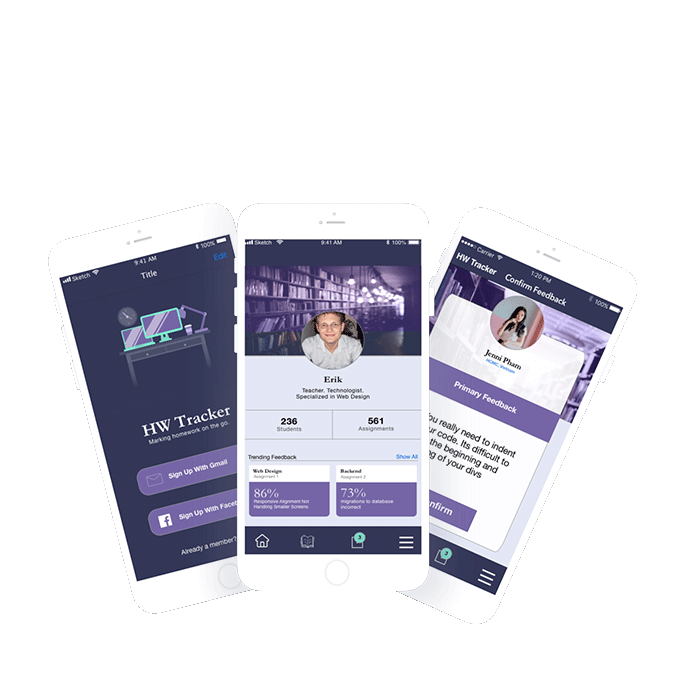
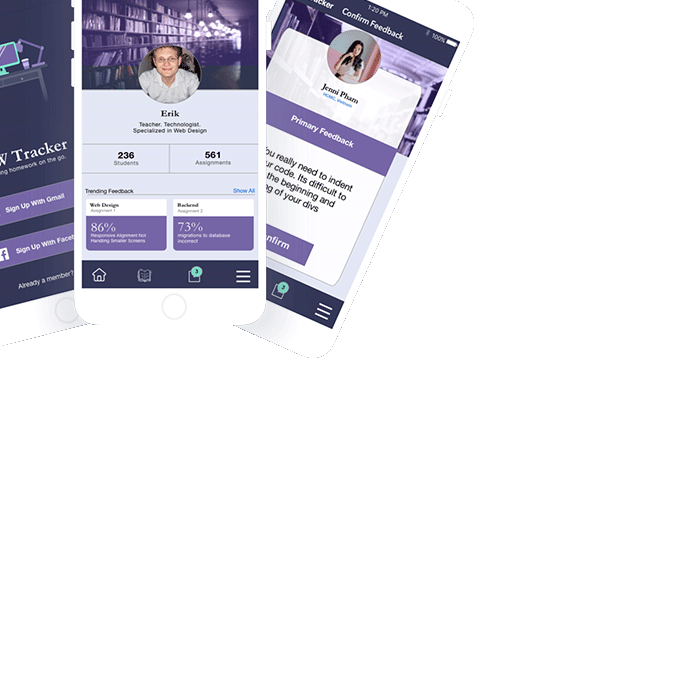
reformatting landing page images and layout

diff --git a/app/assets/stylesheets/master.scss b/app/assets/stylesheets/master.scss
@@ -815,21 +815,18 @@ font-family: Helvetica;
 
 
 #button {
-    display: inline-block;
+    
 	margin-top: 5%;
 	margin-bottom: 5%;
     -webkit-border-radius: 8px;
     -moz-border-radius: 8px;
     border-radius: 8px;
-    -webkit-box-shadow:    0 8px 0 red, 0 15px 20px rgba(0, 0, 0, .35);
-    -moz-box-shadow: 0 8px 0 red, 0 15px 20px rgba(0, 0, 0, .35);
-    box-shadow: 0 8px 0 red, 0 15px 20px rgba(0, 0, 0, .35);
     -webkit-transition: -webkit-box-shadow .1s ease-in-out;
     -moz-transition: -moz-box-shadow .1s ease-in-out;
     -o-transition: -o-box-shadow .1s ease-in-out;
     transition: box-shadow .1s ease-in-out;
     font-size: 50px;
-    color: #fff;
+   
 }
 
 
@@ -840,11 +837,12 @@ font-family: Helvetica;
 }
 
 .card {
-	min-width: 400px !important;
+	
 	-webkit-box-shadow: 0 4px 6px rgba(50,50,93,.11),0 1px 3px rgba(0,0,0,.08)!important;
     box-shadow: 0 4px 6px rgba(50,50,93,.11),0 1px 3px rgba(0,0,0,.08)!important;
     -webkit-transition: all .15s ease!important;
     transition: all .15s ease!important;
+    border-radius: 15px; 
 	
 }
 

diff --git a/app/assets/stylesheets/static.scss b/app/assets/stylesheets/static.scss
@@ -19,6 +19,21 @@
 	vertical-align: middle; 
 }
 
+#design-main-page {
+	 
+}
+
+.image-div {
+	display:flex; 
+}
+
+#img1 {
+	flex: 1.50;
+}
+
+#img2 {
+	flex:1.50;
+}
 
 
 
